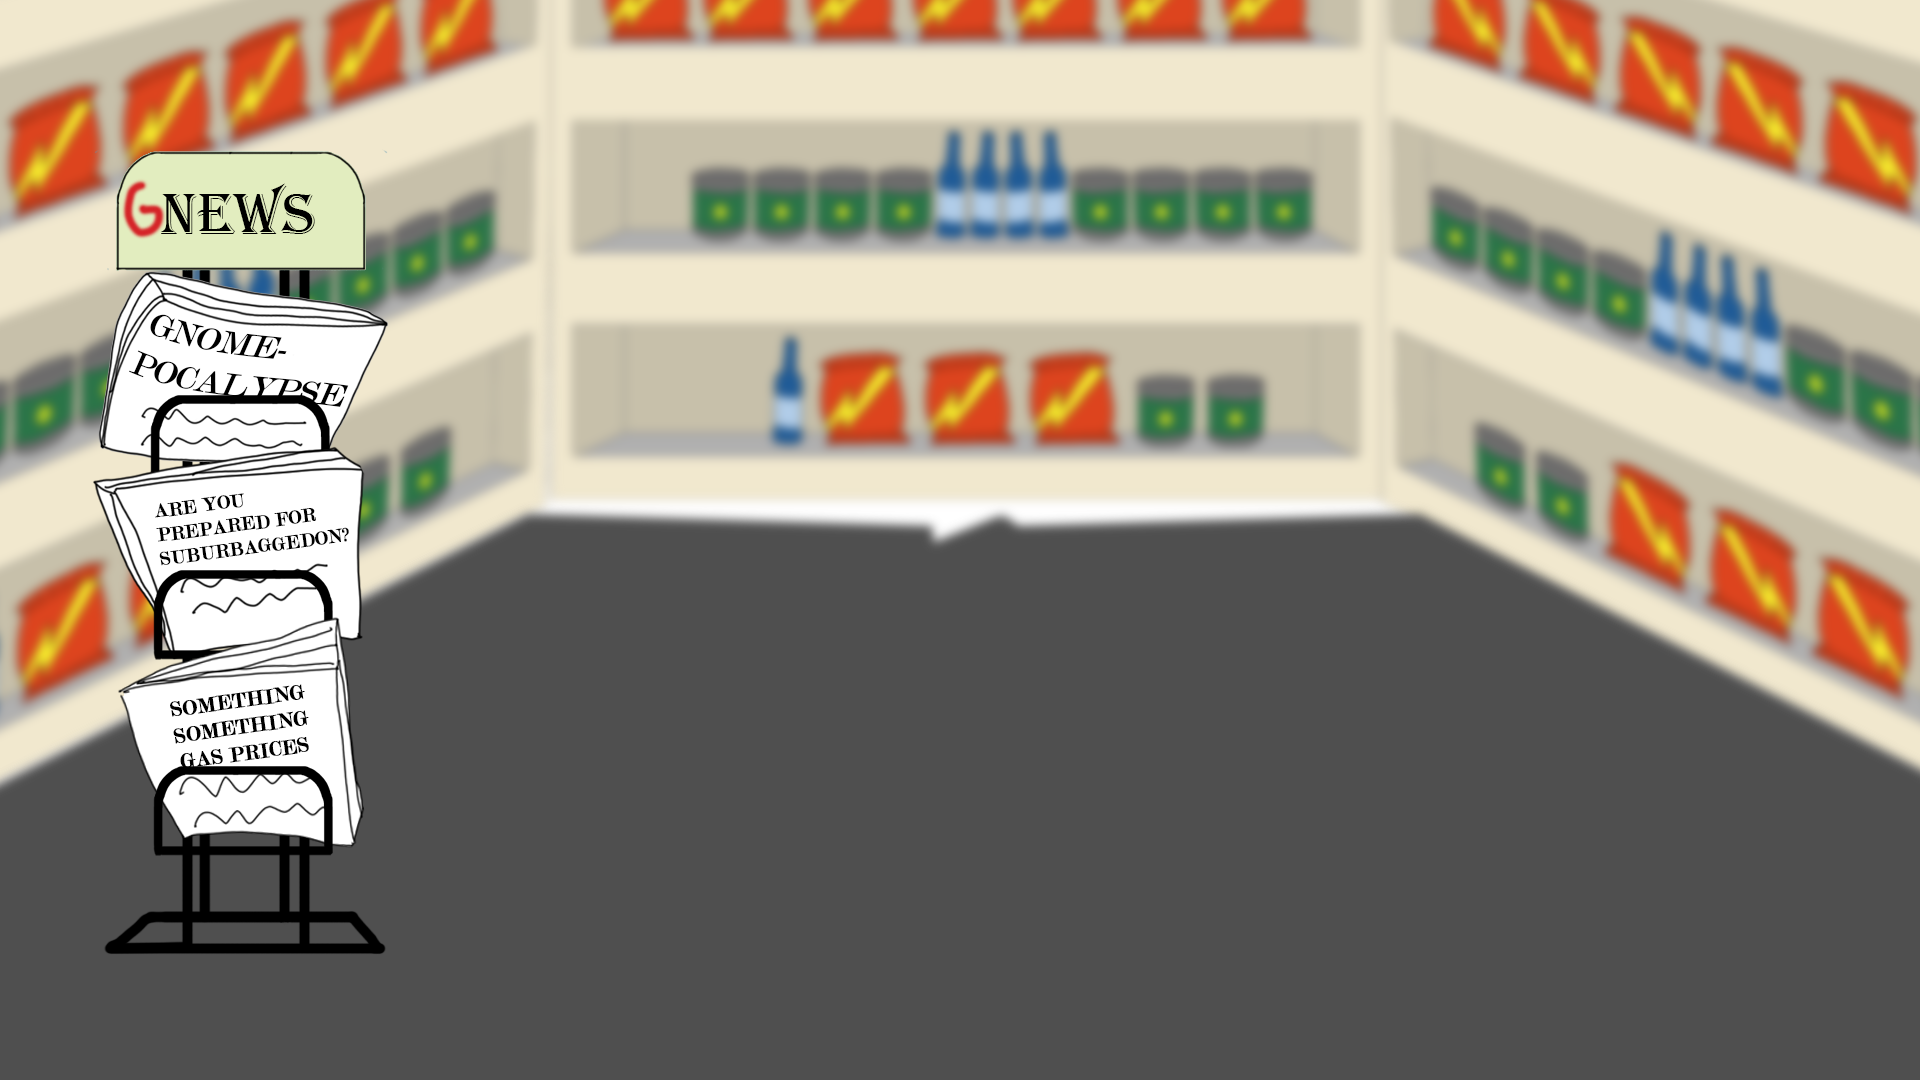
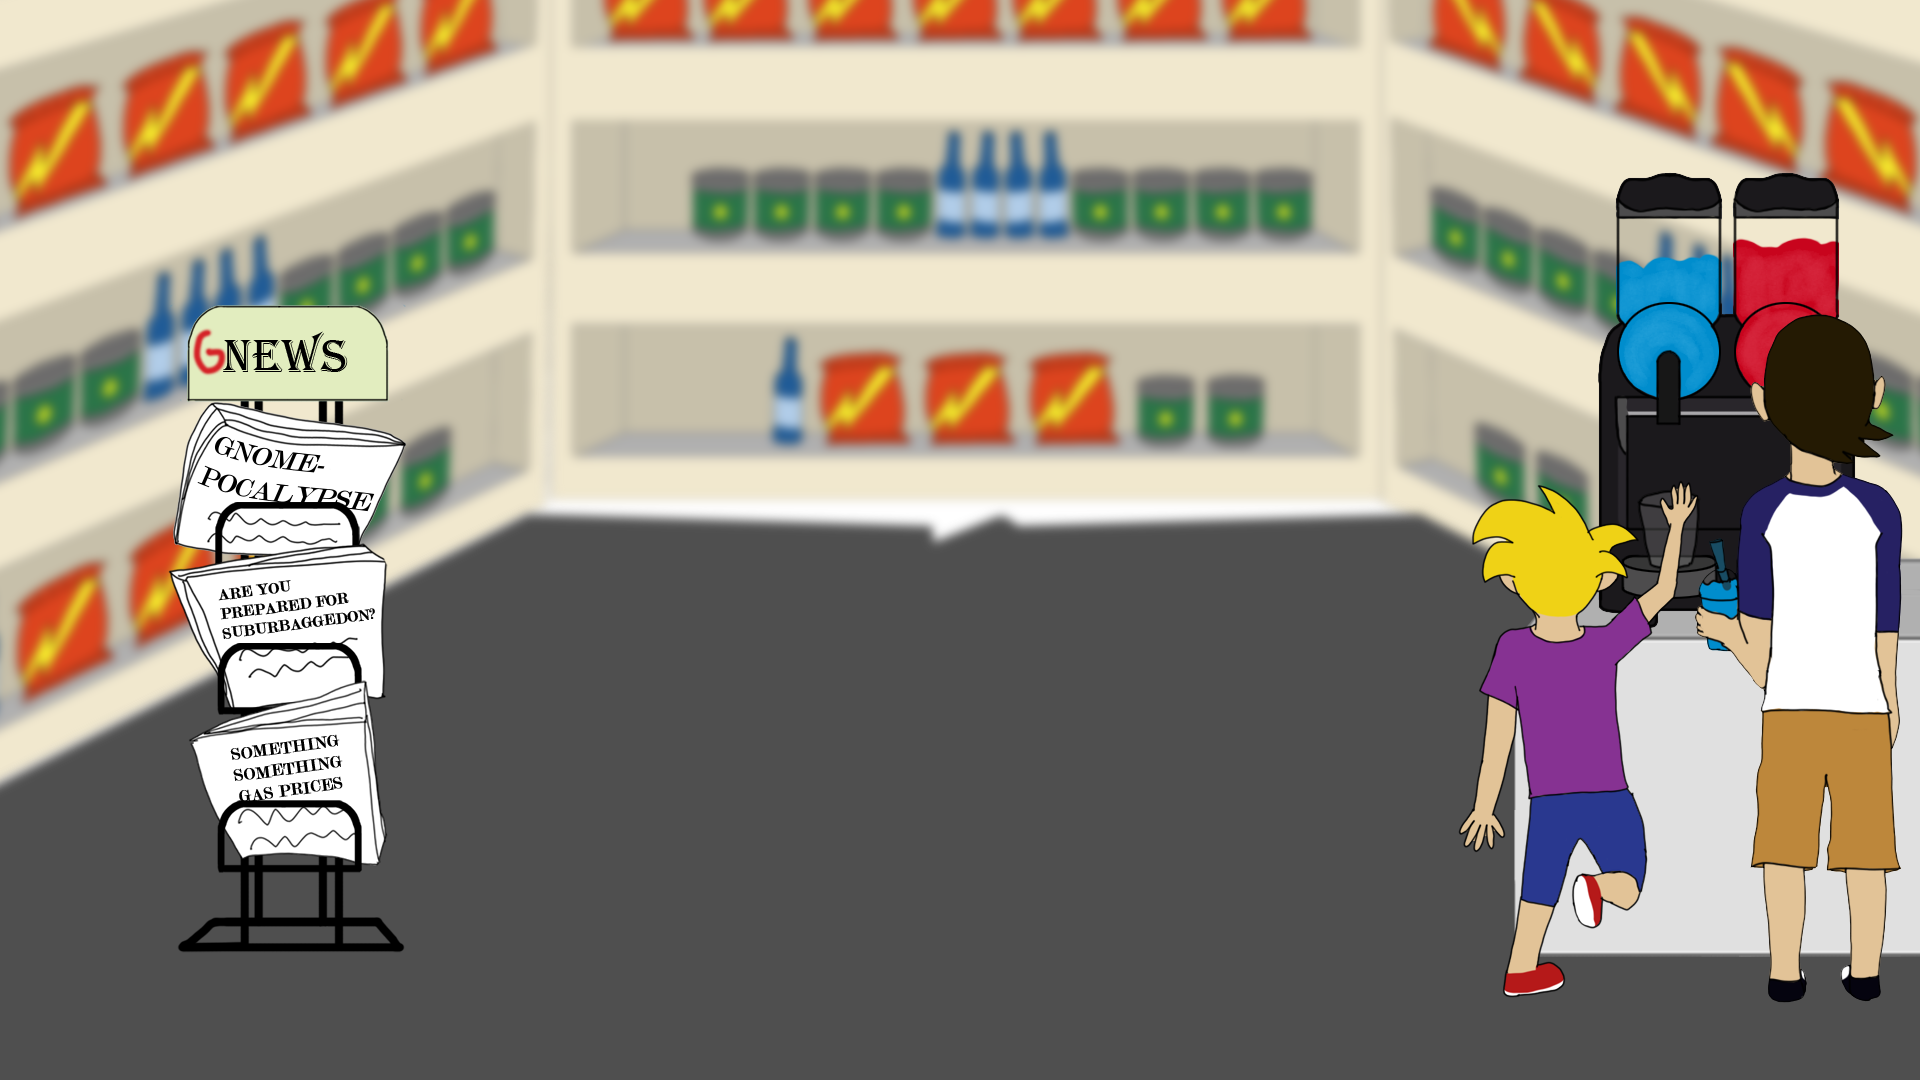
new rest stop bg gotta change where the indicator goes

Changed region(s): [[0.75, 0.1528, 1.0, 0.9472], [0.0312, 0.1222, 0.2188, 0.8861]]

diff --git a/core/src/edu/cornell/gdiac/mangosnoops/GDXRoot.java b/core/src/edu/cornell/gdiac/mangosnoops/GDXRoot.java
@@ -297,6 +297,7 @@ public class GDXRoot extends Game implements ScreenListener {
 				String next = levelSelect.loadSavedLevel() ? SAVED_LEVELS.get(nextIdx - NUM_TUTORIALS) : LEVELS.get(nextIdx);
 				currLevel = nextIdx;
 //				System.out.println("NOW PLAYING LEVEL: " + next);
+//				System.out.println("CURR LEVEL IS NOW: " + currLevel);
 				playing = new GameMode(canvas,settings,soundController,next);
 				playing.preLoadContent(manager);
 				playing.loadContent(manager);
@@ -348,7 +349,7 @@ public class GDXRoot extends Game implements ScreenListener {
 				saveGame(reststop.getPlayerInv());
 
 			playing = new GameMode(canvas,settings,soundController,LEVELS.get(currLevel));
-			System.out.println("EXITING REST STOP, NOW PLAYING LEVEL: " + LEVELS.get(currLevel));
+//			System.out.println("EXITING REST STOP, NOW PLAYING LEVEL: " + LEVELS.get(currLevel));
 			playing.preLoadContent(manager);
 			playing.loadContent(manager);
 			playing.setInventory(reststop.getPlayerInv()); // manually set inventory bc new GameMode
